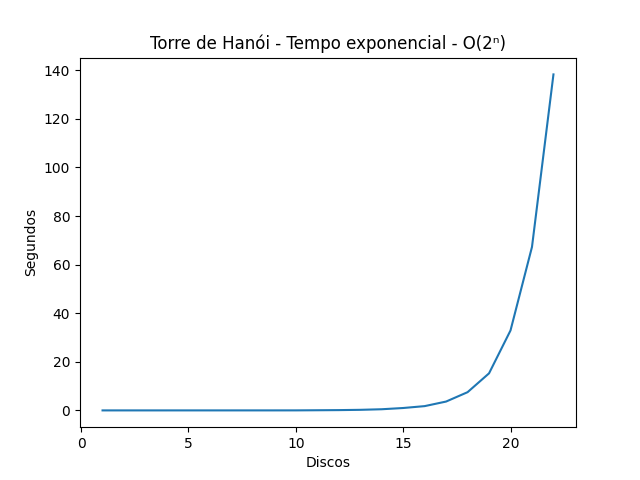
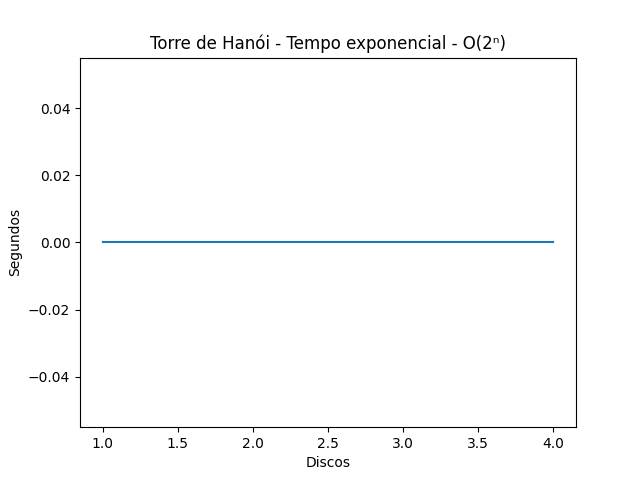
new data generated by running some codes again.

diff --git a/tp2/q1.3/main.py b/tp2/q1.3/main.py
@@ -8,48 +8,36 @@ async def get_files(dir):
 
 async def edit(image, exec):
         loop = asyncio.get_running_loop()
-        
         def _edit():
             img = Image.open(f"./images/{image}")
-        
             embossed = img.filter(ImageFilter.EMBOSS)
             enhanced = ImageEnhance.Contrast(embossed).enhance(3.0)
             enhanced.save(f"../data/images/embossed/{image}")
-
             blurred = img.filter(ImageFilter.GaussianBlur(6))
             blurred.save(f"../data/images/blurred/{image}")
-
         await loop.run_in_executor(exec, _edit)
-
 
 async def edit_all(exec):
     files = await get_files("./images")
     tasks = []
-    
     for file in files:
         tasks.append(edit(file, exec))
-    
     await asyncio.gather(*tasks)
 
 def main():
     max_workers = 8
-    
     content = []
     print("IMAGE EDITING TIME")
     for workers in range(max_workers, 0, -1):
-        
         start = time.time()
         executor = ThreadPoolExecutor(max_workers=workers)
         asyncio.run(edit_all(executor))
         t = round((time.time()-start), 4)
         print(f"Threads: {workers} Time: {t} seconds")
-
         content.append({"threads": workers, "seconds": t })
-    
     with open("./times.json", "w") as f:
         json_data = json.dumps(content, indent=2)
         f.write(json_data)  
-
 
 if __name__ == "__main__":
     main()

diff --git a/tp4/q2/trie.py b/tp4/q2/trie.py
@@ -81,7 +81,7 @@ class Trie:
 
 if __name__ == "__main__":
     words = ["apple", "apricot", "autocomplete", "best", "banana", "basket", "car", "cat", "cap",
-        "dog", "door", "elephant", "engine", "engineer", "island", "jacket", "keyboard", "house"]
+        "dog", "door", "elephant", "engine", "engineer", "eng" "island", "jacket", "keyboard", "house"]
 
     trie = Trie()
     for word in words:
@@ -91,7 +91,7 @@ if __name__ == "__main__":
     print(f"Is {word} in the trie:", trie.search(word))
     word = "computer"
     print(f"Is {word} in the trie:", trie.search(word))
-    prefixes = ["ap", "a", "ba", "ho", "aa", "ca"]
+    prefixes = ["ap", "a", "ba", "ho", "aa", "ca", "engine"]
     for prefix in prefixes:
         print(f"Autocomplete of {prefix}: {trie.matches(prefix)}")
     trie.delete("apple")

diff --git a/tp2/q4.3/hanoi_tower.py b/tp2/q4.3/hanoi_tower.py
@@ -8,21 +8,17 @@ def hanoi(discs, origin, destination, auxiliary):
     else:
 
         hanoi(discs -1, origin, auxiliary, destination)
-
         print(f"Move disc {discs} from {key(origin)} to {key(destination)}")
         decrease(origin)
         sum(destination)
         show_spindles(origin, auxiliary, destination)
-
         hanoi(discs -1, auxiliary, destination, origin)
      
           
-
 def key(dictionary):
     keys = list(dictionary.keys())
     return keys[0]
     
-
 def sum(dictionary):
     dictionary[key(dictionary)] += 1
 
@@ -42,8 +38,6 @@ def show_spindles(spindle1, spindle2, spindle3):
         if key(spindle) == "Aux":
             aux = spindle[key(spindle)]
     print(f"Spindles's state: {left} {aux} {right}")
-
-
 
 
 def init(discs):

diff --git a/tp3/q3/bt.py b/tp3/q3/bt.py
@@ -179,10 +179,10 @@ def main():
     for _ in range(20):
         n = random.randrange(1, 101)
         # print(f"\33[32m{n} found\33[0m") if parallel_search(root, n) else print(f"\33[31m{n} not found\33[0m")
-        # path = dfs_path(root, n)
-        # print(f"\33[32mUntil {n}: {path}\33[0m") if path else print(f"\33[31m{n} not found\33[0m")
+        path = dfs_path(root, n)
+        print(f"\33[32mUntil {n}: {path}\33[0m") if path else print(f"\33[31m{n} not found\33[0m")
     max = parallel_max(root)
-    print(f"Max value:", max)
+    # print(f"Max value:", max)
 
 if __name__ == "__main__":
     main()

diff --git a/tp3/q2/prime.py b/tp3/q2/prime.py
@@ -24,10 +24,8 @@ def parallel_count_primes(start, end):
     chunk = (end - start) // processes
     ranges = [(start + i * chunk, start + (i + 1) * chunk) for i in range(processes)]
     ranges[-1] = (ranges[-1][0], end)
-
     with multiprocessing.Pool(processes=processes) as pool:
         partial_sum = pool.starmap(count_primes, ranges)
-
     return sum(partial_sum)
 
 if __name__ == "__main__":

diff --git a/tp2/q6.2/main.py b/tp2/q6.2/main.py
@@ -12,7 +12,6 @@ def longest_common_substring(string1, string2):
         for j in range(1, len2 + 1):
             if string1[i - 1] == string2[j - 1]:  
                 dp_table[i][j] = dp_table[i - 1][j - 1] + 1
-
                 if dp_table[i][j] > longest_length:
                     longest_length = dp_table[i][j]
                     substring_end_index = i

diff --git a/tp2/q6.3/main.py b/tp2/q6.3/main.py
@@ -4,13 +4,10 @@ def min_coins(value, coins):
     #Time complexity O(value x coins_len)
     dp = [float('inf')] * (value + 1)
     dp[0] = 0
-
     for i in range(1, value + 1):
         for coin in coins:
             if coin <= i:
                 dp[i] = min(dp[i], dp[i - coin] + 1)
-
-    
     return dp[value] if dp[value] != float('inf') else -1
 
 

diff --git a/tp2/q4.3/main.py b/tp2/q4.3/main.py
@@ -16,7 +16,7 @@ class Test(unittest.TestCase):
         self.assertEqual(hanoi_tower.init(0.5), "Discs must be an integer")
 
 if __name__ == "__main__":
-    save_times(22)
+    save_times(4)
     chart.generate_chart()
     unittest.main()
     
